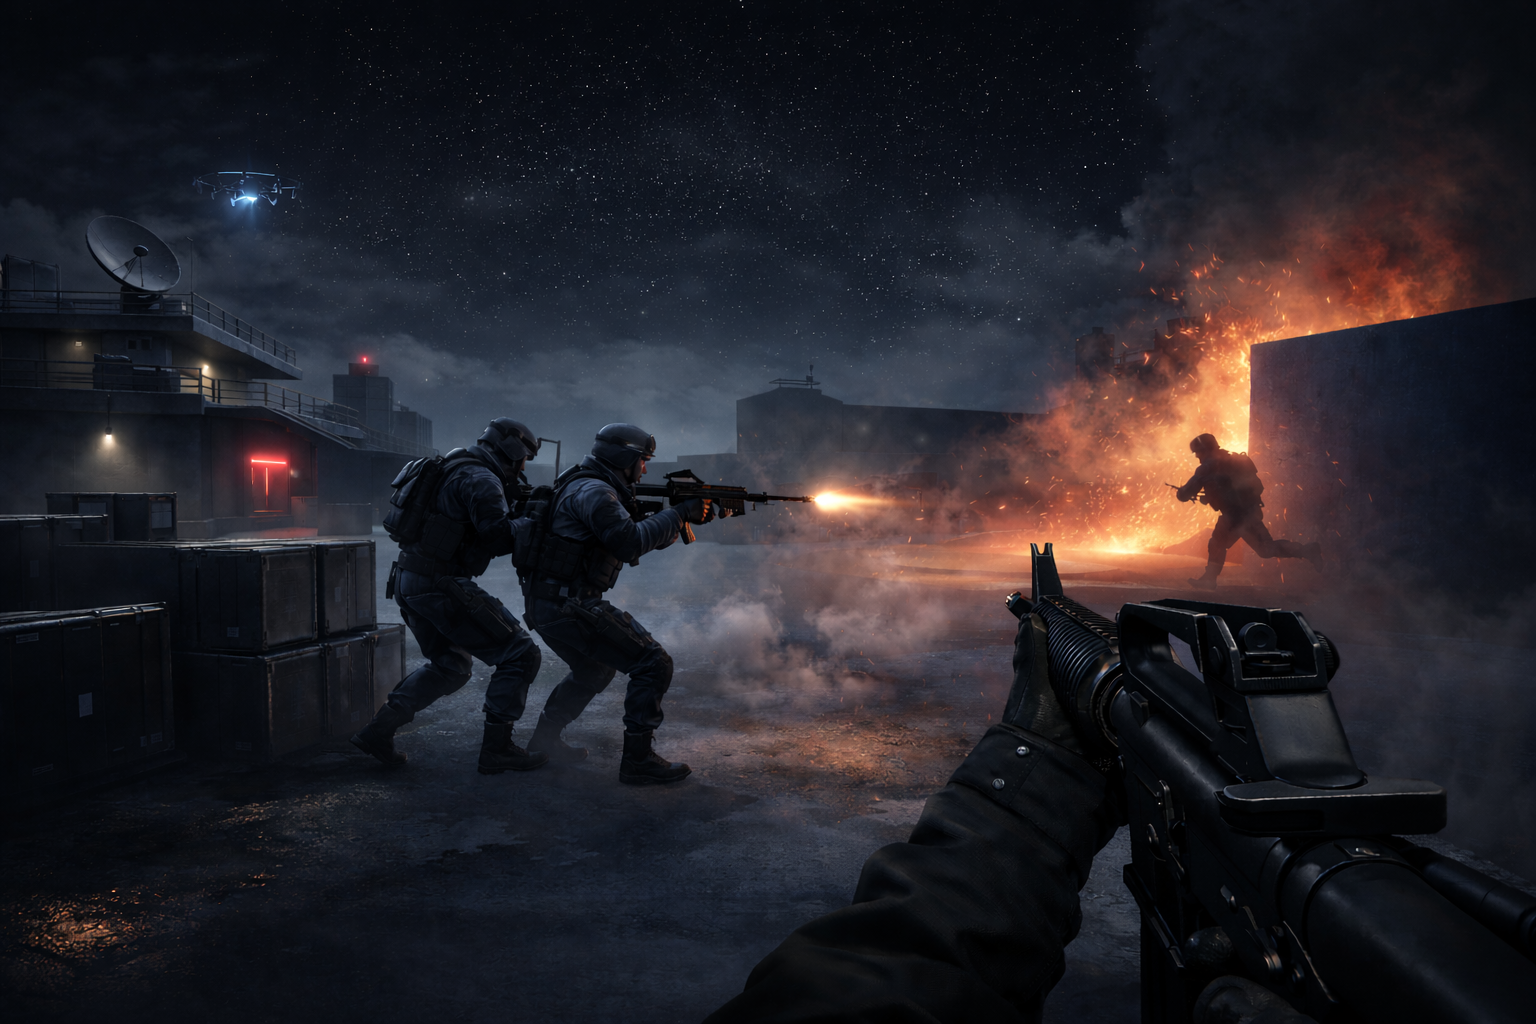
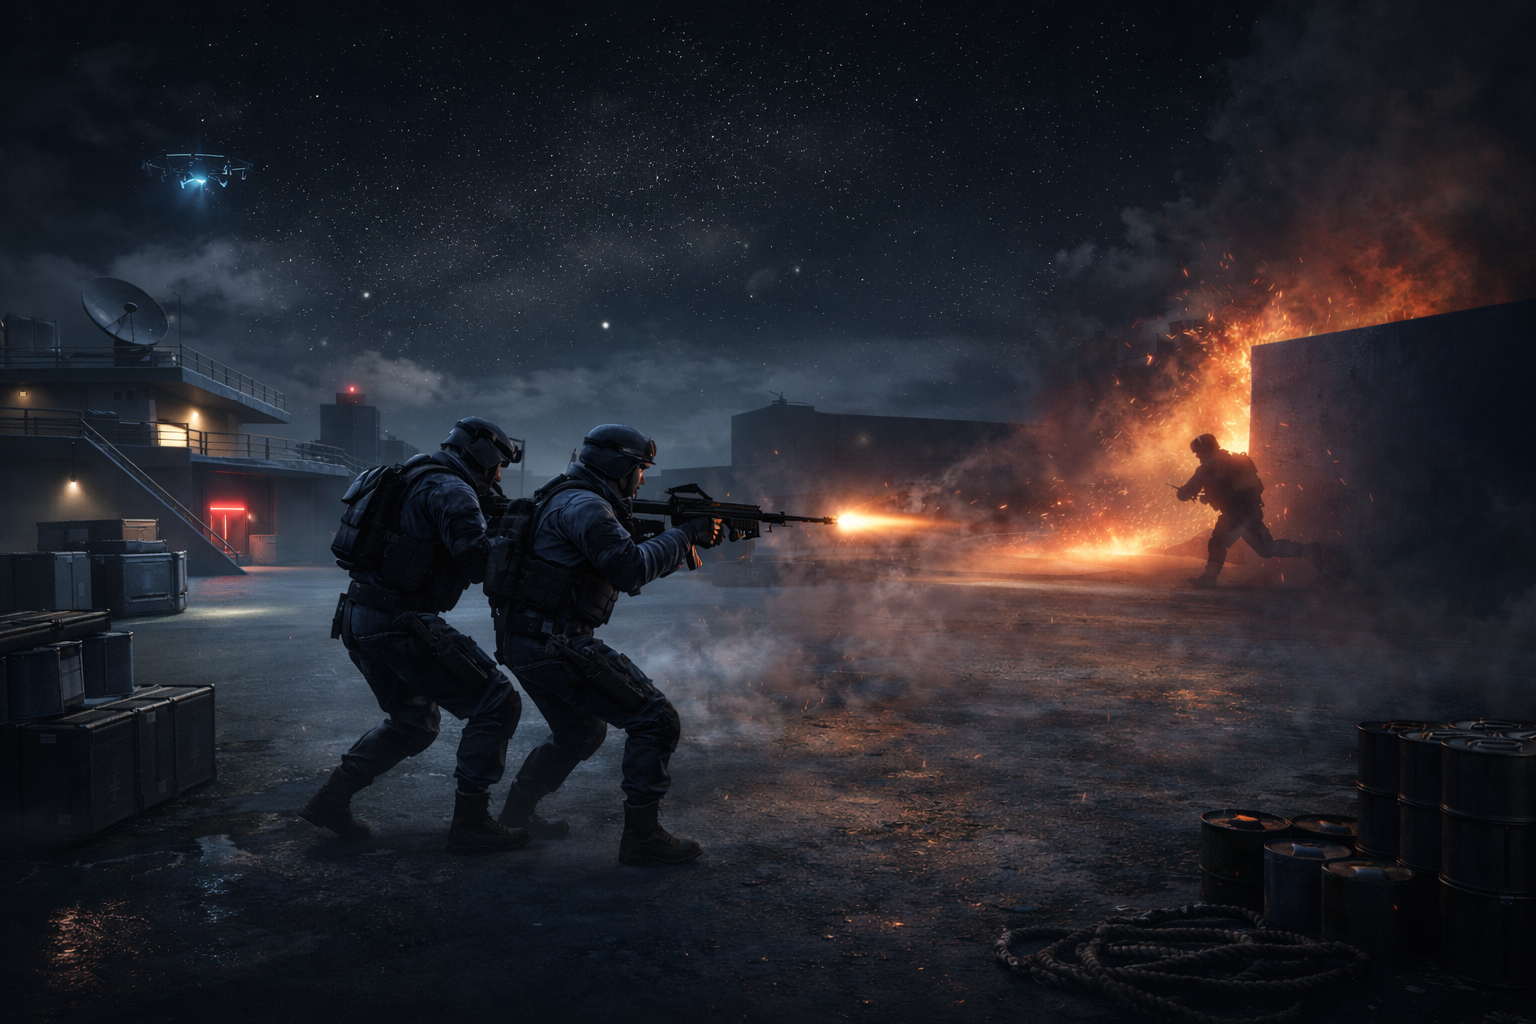
Menu system improved

diff --git a/src/styles/index.css b/src/styles/index.css
@@ -1871,19 +1871,42 @@ body.in-match:not(.mode-br) #lockHint {
 #loadingScreen {
   position: fixed; inset: 0; z-index: 9999;
   display: none; align-items: center; justify-content: center;
-  background:
-    linear-gradient(180deg, rgba(5,8,15,0.55) 0%, rgba(5,8,15,0.85) 100%),
-    url('/images/LoadingScreenBackground.png') center/cover no-repeat,
-    #0a0a12;
+  background: #0a0a12;
+  overflow: hidden;
 }
 #loadingScreen.on { display: flex; }
+/* Slowly-zooming background layer. Keeping this on a dedicated element
+ * lets us animate `transform: scale` (GPU-accelerated, smooth) rather
+ * than the non-animatable `background-size`. A fixed 8% overscan hides
+ * the edges during the zoom so we never see hard cut-offs. */
+.ls-bg {
+  position: absolute; inset: -8%;
+  background:
+    linear-gradient(180deg, rgba(5,8,15,0.55) 0%, rgba(5,8,15,0.85) 100%),
+    url('/images/LoadingScreenBackground.png') center/cover no-repeat;
+  transform: scale(1);
+  animation: lsZoom 22s ease-out forwards;
+  will-change: transform;
+}
+@keyframes lsZoom {
+  from { transform: scale(1); }
+  to   { transform: scale(1.18); }
+}
 .ls-inner {
+  position: relative;
   text-align: center;
   padding: 32px 48px;
   background: rgba(5, 10, 20, 0.55);
   border: 1px solid rgba(74, 158, 255, 0.25);
   border-radius: 8px;
   backdrop-filter: blur(6px);
+}
+.ls-logo-img {
+  width: min(360px, 70vw);
+  height: auto;
+  margin: 0 auto 20px;
+  display: block;
+  filter: drop-shadow(0 6px 24px rgba(0,0,0,0.75));
 }
 .ls-logo {
   font-size: 64px; color: var(--blue);
@@ -2019,3 +2042,98 @@ body.cb-tritanopia   { --blue: #009e73; --red: #cc79a7; }
   opacity: 0; transition: opacity 0.2s;
 }
 .spawn-shield.on { opacity: 1; }
+
+/* ═══════════════════════════════════════════════
+   START GATE (gesture splash to unlock audio)
+   ═══════════════════════════════════════════════ */
+#startGate {
+  position: fixed; inset: 0; z-index: 10000;
+  display: none;
+  align-items: center; justify-content: center;
+  overflow: hidden;
+  background:
+    radial-gradient(ellipse at center, rgba(10,18,30,0.55) 0%, rgba(3,6,12,0.95) 75%),
+    url('/images/PlayMenuBackground.png') center/cover no-repeat,
+    #05070c;
+}
+#startGate.on { display: flex; }
+.sg-inner {
+  text-align: center;
+  display: flex; flex-direction: column; align-items: center; gap: 28px;
+  animation: sgIn 0.6s ease-out both;
+}
+@keyframes sgIn {
+  from { opacity: 0; transform: translateY(10px); }
+  to   { opacity: 1; transform: translateY(0); }
+}
+.sg-logo {
+  width: min(520px, 80vw);
+  height: auto;
+  filter: drop-shadow(0 6px 30px rgba(0,0,0,0.8));
+  animation: sgLogoFloat 4s ease-in-out infinite;
+}
+@keyframes sgLogoFloat {
+  0%, 100% { transform: translateY(0); }
+  50%      { transform: translateY(-8px); }
+}
+.sg-play {
+  font-family: var(--hud-font, 'Orbitron', sans-serif);
+  font-size: 22px; font-weight: 900;
+  letter-spacing: 0.4em;
+  padding: 16px 72px;
+  color: #fff;
+  background: linear-gradient(180deg, rgba(74,168,255,0.25), rgba(74,168,255,0.05));
+  border: 1.5px solid rgba(120,190,255,0.6);
+  border-radius: 4px;
+  cursor: pointer;
+  text-shadow: 0 0 10px rgba(120,190,255,0.6);
+  box-shadow: 0 0 24px rgba(74,168,255,0.25), inset 0 0 12px rgba(74,168,255,0.15);
+  transition: transform 0.15s ease, box-shadow 0.2s ease, background 0.2s ease;
+  animation: sgPulse 2.2s ease-in-out infinite;
+}
+.sg-play:hover {
+  background: linear-gradient(180deg, rgba(120,200,255,0.4), rgba(74,168,255,0.1));
+  box-shadow: 0 0 40px rgba(120,200,255,0.55), inset 0 0 16px rgba(120,200,255,0.3);
+  transform: scale(1.04);
+}
+.sg-play:active { transform: scale(0.98); }
+@keyframes sgPulse {
+  0%, 100% { box-shadow: 0 0 24px rgba(74,168,255,0.25), inset 0 0 12px rgba(74,168,255,0.15); }
+  50%      { box-shadow: 0 0 36px rgba(120,200,255,0.45), inset 0 0 18px rgba(120,200,255,0.25); }
+}
+.sg-hint {
+  font-family: var(--mono-font, monospace);
+  font-size: 11px; letter-spacing: 0.2em;
+  color: rgba(255,255,255,0.45);
+  text-transform: uppercase;
+}
+
+/* ═══════════════════════════════════════════════
+   INTRO-ACTIVE: hide HUD during MatchIntro camera sweep
+   ═══════════════════════════════════════════════ */
+body.intro-active #xh,
+body.intro-active #dmgArcs,
+body.intro-active #compass,
+body.intro-active #minimap,
+body.intro-active #matchInfo,
+body.intro-active #killfeed,
+body.intro-active #killstreak,
+body.intro-active #bottomHud,
+body.intro-active #reloadBar,
+body.intro-active #reloadText,
+body.intro-active #subtitleOverlay,
+body.intro-active #streakTray,
+body.intro-active #matchChallenges,
+body.intro-active #matchChallengesPanel,
+body.intro-active #fieldUpgradeHud,
+body.intro-active #contractsHud,
+body.intro-active #lockHint,
+body.intro-active #scopeOverlay,
+body.intro-active #adsOverlay,
+body.intro-active #adsVignette,
+body.intro-active #dmg,
+body.intro-active #hlf {
+  opacity: 0 !important;
+  pointer-events: none !important;
+  transition: opacity 0.2s ease;
+}

diff --git a/src/main.ts b/src/main.ts
@@ -302,7 +302,35 @@ async function init(): Promise<void> {
   // DOM overlay and doesn't need the 3D canvas animated behind it.
   gameState.paused = true;
   gameState.mainMenuOpen = true;
-  showMainMenu();
+
+  // ── Start gate ────────────────────────────────────────────────────
+  // Modern browsers block AudioContext playback until a user gesture.
+  // Show a splash with the WARZONE logo + PLAY button; the first click
+  // resumes the audio context and starts the lobby music so the
+  // MainMenu is never silent.
+  const gate = document.getElementById('startGate');
+  const playBtn = document.getElementById('sgPlay');
+  if (gate && playBtn) {
+    gate.classList.add('on');
+    const onFirstClick = async () => {
+      playBtn.removeEventListener('click', onFirstClick);
+      try { await Audio.resume(); } catch { /* non-fatal */ }
+      // Start the lobby music immediately; the dynamic-music system
+      // takes over once a match starts.
+      try {
+        const dm = await import('@/audio/DynamicMusic');
+        dm.playMusicState('lobby');
+      } catch (err) {
+        console.warn('[main] Failed to start lobby music:', err);
+      }
+      gate.classList.remove('on');
+      showMainMenu();
+    };
+    playBtn.addEventListener('click', onFirstClick);
+  } else {
+    // Fallback: gate markup missing — go straight to the menu.
+    showMainMenu();
+  }
 }
 
 init().catch((err) => console.error('[main] init failed:', err));

diff --git a/src/ui/MatchIntro.ts b/src/ui/MatchIntro.ts
@@ -26,6 +26,7 @@
 
 import * as THREE from 'three';
 import { gameState } from '@/core/GameState';
+import { setViewmodelVisible } from '@/rendering/WeaponViewmodel';
 
 export interface MatchIntroOptions {
   mapName: string;
@@ -331,6 +332,13 @@ export function playMatchIntro(opts: MatchIntroOptions): Promise<void> {
     // Lock input
     gameState._introActive = true;
 
+    // Hide viewmodel + HUD during the cinematic pre-match intro.
+    // The camera sweeps over the arena from a third-person perspective;
+    // a first-person weapon floating in-frame looks broken. HUD is
+    // hidden via CSS keyed on body.intro-active.
+    document.body.classList.add('intro-active');
+    try { setViewmodelVisible(false); } catch { /* viewmodel may not be initialized yet */ }
+
     // Fade in the overlay, then trigger map phase
     requestAnimationFrame(() => {
       const fade = introState.overlay!.querySelector('.mi-fade') as HTMLElement;
@@ -441,6 +449,11 @@ function cleanup(): void {
   introState.cameraRestore = null;
   introState.opts = null;
   gameState._introActive = false;
+
+  // Restore HUD + viewmodel now that the intro camera is gone and
+  // gameplay is about to take over.
+  document.body.classList.remove('intro-active');
+  try { setViewmodelVisible(true); } catch { /* non-fatal */ }
 }
 
 export function isIntroActive(): boolean {

diff --git a/index.html b/index.html
@@ -22,11 +22,22 @@
 <body>
   <!-- Loading screen -->
   <div id="loadingScreen" class="on">
+    <div class="ls-bg"></div>
     <div class="ls-inner">
-      <div class="ls-logo">◆</div>
-      <h1 class="ls-title">WARZONE</h1>
+      <img class="ls-logo-img" src="/images/WarZoneLogo.png" alt="WARZONE" />
       <div class="ls-bar"><div class="ls-fill" id="lsFill"></div></div>
       <div class="ls-text" id="lsText">Loading assets…</div>
+    </div>
+  </div>
+
+  <!-- Start gate: shown AFTER Phase-1 init finishes, hides BEFORE the
+       MainMenu. Required to unlock the Web Audio context (browsers
+       require a user gesture before any audio can play) so the lobby
+       music actually starts under the MainMenu. -->
+  <div id="startGate">
+    <div class="sg-inner">
+      <img class="sg-logo" src="/images/WarZoneLogo.png" alt="WARZONE" />
+      <button id="sgPlay" class="sg-play">PLAY</button>
     </div>
   </div>
 

diff --git a/src/rendering/WeaponViewmodel.ts b/src/rendering/WeaponViewmodel.ts
@@ -160,8 +160,14 @@ pistol: {
   rocket_launcher: {
     url: GRENADE_LAUNCHER_GLB_URL,
     desiredMaxDimension: 1.18,
-    position: new THREE.Vector3(0.075, -0.055, -0.155),
-    rotation: new THREE.Euler(0.015, -0.145, 0.055),
+    // Pulled in closer to the camera (z: -0.155 → -0.085) so the
+    // end of the left arm (edge of the rigged model) is no longer
+    // visible in-frame.
+    position: new THREE.Vector3(0.05, -0.055, -0.085),
+    // The grenade-launcher GLB authors the model pointing toward +Z,
+    // opposite to every other weapon in the set — flip it 180° around
+    // Y so the muzzle faces away from the camera.
+    rotation: new THREE.Euler(0.015, Math.PI - 0.145, 0.055),
     holdTime: 8.84,
     ranges: {
       shoot: [0.00, 0.37],
